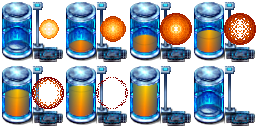
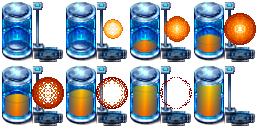
Basic tie fighter menu item implemented, battery animation fixed

diff --git a/main/menu.js b/main/menu.js
@@ -121,6 +121,8 @@ function Menu(game, x, y) {
     this.items = [];
     this.addItem(game, "Battery", 50, ASSET_MANAGER.getAsset("./main/img/menubattery.png"),
         Battery);
+    this.addItem(game, "Fighter", 75, ASSET_MANAGER.getAsset("./main/img/menubattery.png"),
+        TieFighter);
 }
 
 Menu.prototype = new Entity();
